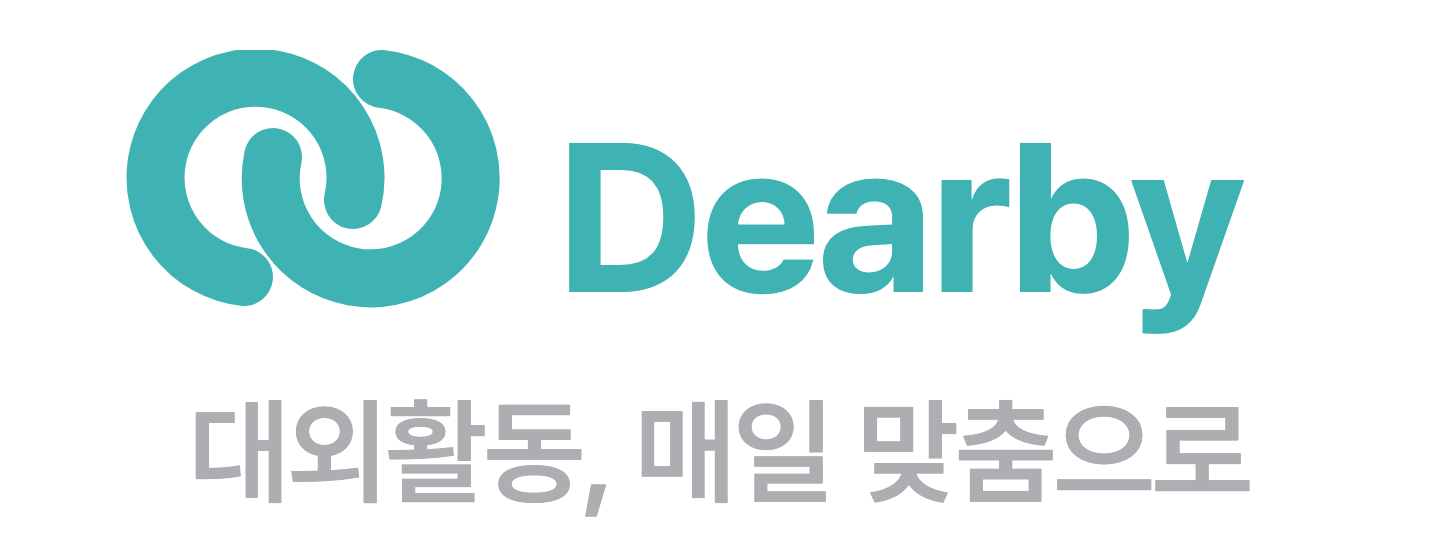
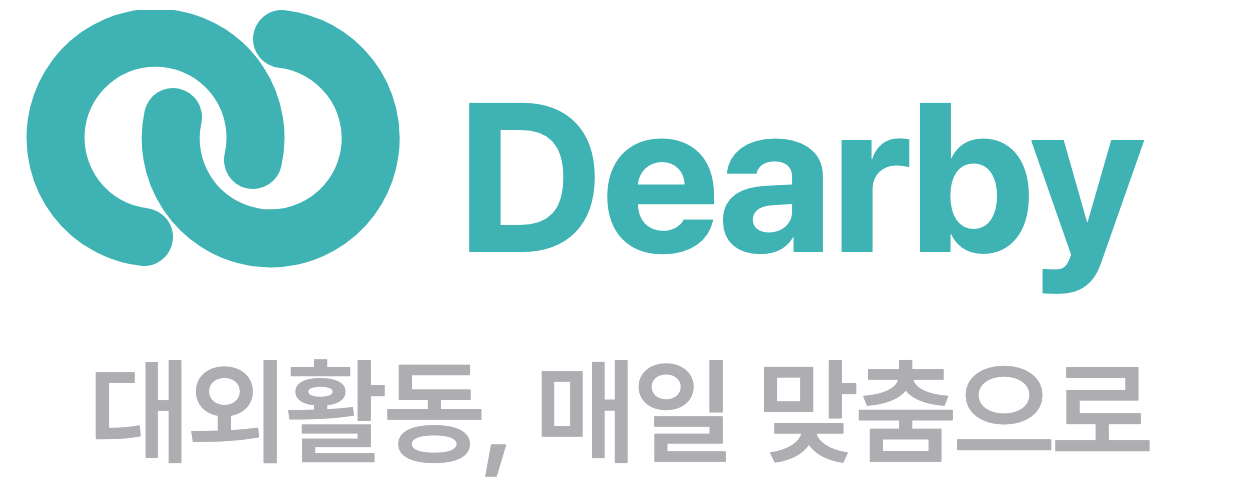
feat(sign-in): 로그인 시트를 절반 높이로 고정, 처음 사용자 안내 문구 삭제, 락업 96 고정
2026-10-25 사용자 수정 지시. iOS .presentationDetents([.medium]), Android 부분 펼침 없이 본문 높이 50%.
작은 화면에서는 위쪽 내용만 스크롤되고 버튼은 보인다. 락업 원본을 1240x480으로 여백을 줄여 다시 뽑음.
iOS 안내 문구는 이번 PR 이전 문장으로 되돌림.

Claude-Session: https://claude.ai/code/session_01YYywA6WfJBBvKb9Kjj7SzQ

Changed region(s): [[0.0, 0.0, 0.9194, 0.625], [0.0613, 0.7188, 0.95, 1.0]]

diff --git a/apps/android/app/src/main/java/com/dearby/nativeapp/pages/account/SignInSheet.kt b/apps/android/app/src/main/java/com/dearby/nativeapp/pages/account/SignInSheet.kt
@@ -1,11 +1,11 @@
 package com.dearby.nativeapp.pages.account
 
+import androidx.compose.foundation.layout.fillMaxHeight
 import androidx.compose.foundation.layout.fillMaxWidth
 import androidx.compose.material3.*
 import androidx.compose.runtime.Composable
 import androidx.compose.ui.Modifier
 import androidx.compose.ui.platform.testTag
-import androidx.compose.ui.text.style.TextAlign
 import com.dearby.nativeapp.shared.ui.*
 
 /**
@@ -17,10 +17,11 @@ import com.dearby.nativeapp.shared.ui.*
 @OptIn(ExperimentalMaterial3Api::class)
 @Composable fun SignInSheet(busy: Boolean, message: String?, signIn: () -> Unit, apple: () -> Unit, google: (() -> Unit)?, close: () -> Unit) {
     ModalBottomSheet(close, sheetState = rememberModalBottomSheetState(skipPartiallyExpanded = true), containerColor = MaterialTheme.colorScheme.surface) {
-        CenteredMessage(null, "로그인", "패스키는 기기 잠금(지문·얼굴·PIN)으로 로그인해요. 비밀번호는 필요 없어요.",
+        // Fixed at half the screen (2026-10-25): skipPartiallyExpanded leaves one expanded state, and the body is half the height,
+        // so the sheet does not move between partial and full. On a small screen the heading scrolls and the buttons stay in view.
+        CenteredMessage(null, "로그인", "패스키는 기기 잠금(지문·얼굴·PIN)으로 로그인해요. 비밀번호는 필요 없어요.", Modifier.fillMaxHeight(0.5f),
             symbol = { DearbyLockup() },
             content = {
-                Text("처음이라면 Apple이나 Google 계정으로 시작해요.", color = MaterialTheme.colorScheme.onSurfaceVariant, textAlign = TextAlign.Center, style = MaterialTheme.typography.bodyLarge)
                 message?.let { DearbyFieldError(it) }
             },
             actions = {

diff --git a/apps/android/app/src/main/java/com/dearby/nativeapp/shared/ui/Components.kt b/apps/android/app/src/main/java/com/dearby/nativeapp/shared/ui/Components.kt
@@ -91,9 +91,9 @@ private val DarkScheme = darkColorScheme(
     Text("Dearby", color = MaterialTheme.colorScheme.primary, fontWeight = FontWeight.Bold, style = MaterialTheme.typography.titleLarge)
 }
 /** 로그인 시트 락업: 가로 워드마크 아래 캐치프레이즈를 한 장으로 그린 이미지(`dearby_lockup`, 원본 shared/assets/brand/sign-in-lockup.html; 다크는 drawable-night-nodpi).
- *  글자 배율과 무관하게 고정 크기(여백까지 가득, 최대 너비 400dp, 1440:560 → 폰에서 높이 약 140dp, 내용 높이 시트의 약 1/4). */
+ *  고정 높이 96dp(비율 1240:480, 글자 배율과 무관): 절반 높이 로그인 시트의 약 1/4. */
 @Composable fun DearbyLockup(modifier: Modifier = Modifier) =
-    Image(painterResource(R.drawable.dearby_lockup), "Dearby, 대외활동, 매일 맞춤으로", modifier.widthIn(max = 400.dp).fillMaxWidth().aspectRatio(1440f / 560f))
+    Image(painterResource(R.drawable.dearby_lockup), "Dearby, 대외활동, 매일 맞춤으로", modifier.height(96.dp).aspectRatio(1240f / 480f))
 /**
  * 주 버튼(contract "폼은 플랫폼 기본 컴포넌트", 2026-10-19 밤): Material 3 `Button`/`OutlinedButton` 기본 모양·글꼴에 최소 높이 48dp(터치 영역 규칙)만 둔다.
  * 사용자 정의 모서리·높이·글자 크기는 없다. 채운 버튼은 두 모드 모두 [TealFill] 바탕·흰 글자(contract "청록 채움 면 위 글자는 흰색"); 비활성 색은 Material 기본.

diff --git a/shared/assets/brand/sign-in-lockup.html b/shared/assets/brand/sign-in-lockup.html
@@ -1,12 +1,12 @@
 <!doctype html>
 <!-- 로그인 시트 락업(2026-10-25 사용자 요청): 워드마크(wordmark.svg와 같은 심볼·"Dearby") 아래 캐치프레이즈 "대외활동, 매일 맞춤으로".
-     1440×560 투명 PNG로 뽑는다. ?theme=dark면 다크 변형(워드마크 #3FB3B4, 문구 밝은 회색). 뽑는 법은 README "다시 뽑을 때". -->
+     1240×480 투명 PNG로 뽑는다. ?theme=dark면 다크 변형(워드마크 #3FB3B4, 문구 밝은 회색). 뽑는 법은 README "다시 뽑을 때". -->
 <html lang="ko"><head><meta charset="utf-8"><style>
   @font-face { font-family: "Pretendard"; src: url("../fonts/pretendard/Pretendard-Bold.otf") format("opentype"); font-weight: 700; }
   @font-face { font-family: "Pretendard"; src: url("../fonts/pretendard/Pretendard-SemiBold.otf") format("opentype"); font-weight: 600; }
   :root { --mark: #007F80; --caption: #6E6E73; }
   :root.dark { --mark: #3FB3B4; --caption: #AEAEB2; }
-  html, body { margin: 0; width: 1440px; height: 560px; background: transparent; overflow: hidden; }
+  html, body { margin: 0; width: 1240px; height: 480px; background: transparent; overflow: hidden; }
   body { display: flex; flex-direction: column; align-items: center; justify-content: center; gap: 44px; font-family: "Pretendard", sans-serif; }
   svg { height: 300px; display: block; }
   p { margin: 0; font-size: 116px; font-weight: 600; letter-spacing: -2px; color: var(--caption); line-height: 1; }

diff --git a/apps/ios/Sources/widgets/identity/ui/SignInSheet.swift b/apps/ios/Sources/widgets/identity/ui/SignInSheet.swift
@@ -26,13 +26,13 @@ struct SignInSheet: View {
             if phase == .signedIn { dismiss(); signedIn() }
         }
         .onDisappear { account.clearPendingLink() }
-        // Half height first (2026-10-25); the heading scrolls if it does not fit, and the sheet can still be pulled up.
-        .presentationDetents([.medium, .large])
+        // Fixed half height (2026-10-25): on a small screen the heading scrolls and the buttons stay in view.
+        .presentationDetents([.medium])
     }
 
     private var choices: some View {
         CenteredMessage(title: social ? "로그인" : "패스키로 로그인",
-                        message: social ? "처음이라면 애플이나 구글 계정으로 시작해요. 패스키가 있으면 바로 로그인해요."
+                        message: social ? "애플·구글 계정이나 패스키로 바로 로그인해요. 비밀번호와 인증번호는 필요 없어요."
                             : "Face ID나 Touch ID로 바로 로그인해요. 비밀번호와 인증번호는 필요 없어요.") {
             DearbyLockup()
         } actions: {

diff --git a/apps/ios/Sources/shared/ui/DearbyStyle.swift b/apps/ios/Sources/shared/ui/DearbyStyle.swift
@@ -73,7 +73,7 @@ struct DearbyBrand: View {
 }
 
 /// 로그인 시트 락업: 가로 워드마크 아래 캐치프레이즈를 한 장으로 그린 이미지(`DearbyLockup`, 원본 shared/assets/brand/sign-in-lockup.html, 라이트·다크 두 장).
-/// 큰 글씨 설정과 무관하게 고정 높이 96pt(비율 1440:560 → 너비 약 247pt): 절반 높이 로그인 시트의 약 1/4.
+/// 고정 높이 96pt(비율 1240:480 → 너비 약 248pt, 큰 글씨 설정과 무관): 중간 높이 로그인 시트의 약 1/4.
 struct DearbyLockup: View {
     var body: some View {
         Image("DearbyLockup").resizable().scaledToFit().frame(height: 96)

diff --git a/shared/assets/brand/README.md b/shared/assets/brand/README.md
@@ -9,7 +9,7 @@
 - iOS: `AppIcon.appiconset/AppIcon.png`(1024, 불투명), `DearbyLogo.imageset/logo-teal.png`(2172×724, 투명), `LaunchLogo.imageset/launch-logo@3x.png`(480×160, 투명).
 - Android: 적응형 아이콘 `mipmap-anydpi-v26/ic_launcher(.round).xml` = `@color/ic_launcher_background`(#007F80) + `@drawable/ic_launcher_foreground`(108dp 캔버스, 66dp 안전 영역에 흰 심볼 벡터). 옛 `drawable/ic_launcher.xml`(흰 D)은 지웠고 매니페스트는 `@mipmap/ic_launcher`·`roundIcon`을 가리킨다. 최소 SDK 26이라 레거시 래스터 세트는 두지 않는다. 앱 안 로고 `drawable-nodpi/dearby_logo.png`도 새 워드마크.
 - 웹: 심볼은 `src/shared/ui/brand-symbol.tsx`(symbol.svg 인라인, `currentColor`로 테마 청록을 따름) + Pretendard Bold "Dearby" 텍스트. `src/app/apple-icon.png`(180), `src/app/icon.png`(512), `public/icons/icon-192.png`·`icon-512.png`(매니페스트). 옛 `public/logo-teal.png`은 2026-10-19 지웠다.
-- `sign-in-lockup.html` → `sign-in-lockup-light.png`·`sign-in-lockup-dark.png`(2026-10-25, 로그인 시트): 워드마크 아래 캐치프레이즈 "대외활동, 매일 맞춤으로"(Pretendard SemiBold), 1440×560 투명. 라이트는 청록 #007F80 + 회색 #6E6E73, 다크(`?theme=dark`)는 #3FB3B4 + #AEAEB2. iOS `DearbyLockup.imageset`(다크 appearance), Android `drawable-nodpi/dearby_lockup.png`·`drawable-night-nodpi/dearby_lockup.png`. 뽑기: `"Google Chrome" --headless --hide-scrollbars --default-background-color=00000000 --window-size=1440,560 --virtual-time-budget=2000 --screenshot=<out>.png "file://<abs>/sign-in-lockup.html?theme=light|dark"`.
+- `sign-in-lockup.html` → `sign-in-lockup-light.png`·`sign-in-lockup-dark.png`(2026-10-25, 로그인 시트): 워드마크 아래 캐치프레이즈 "대외활동, 매일 맞춤으로"(Pretendard SemiBold), 1240×480 투명. 라이트는 청록 #007F80 + 회색 #6E6E73, 다크(`?theme=dark`)는 #3FB3B4 + #AEAEB2. iOS `DearbyLockup.imageset`(다크 appearance), Android `drawable-nodpi/dearby_lockup.png`·`drawable-night-nodpi/dearby_lockup.png`. 뽑기: `"Google Chrome" --headless --hide-scrollbars --default-background-color=00000000 --window-size=1240,480 --virtual-time-budget=2000 --screenshot=<out>.png "file://<abs>/sign-in-lockup.html?theme=light|dark"`.
 - 다시 뽑을 때: `qlmanage`는 SVG의 @font-face를 읽지 못하므로 워드마크는 헤드리스 Chrome(`--default-background-color=00000000`)으로 그린다(브라우저로 SVG를 열어 캡처).
 
 
